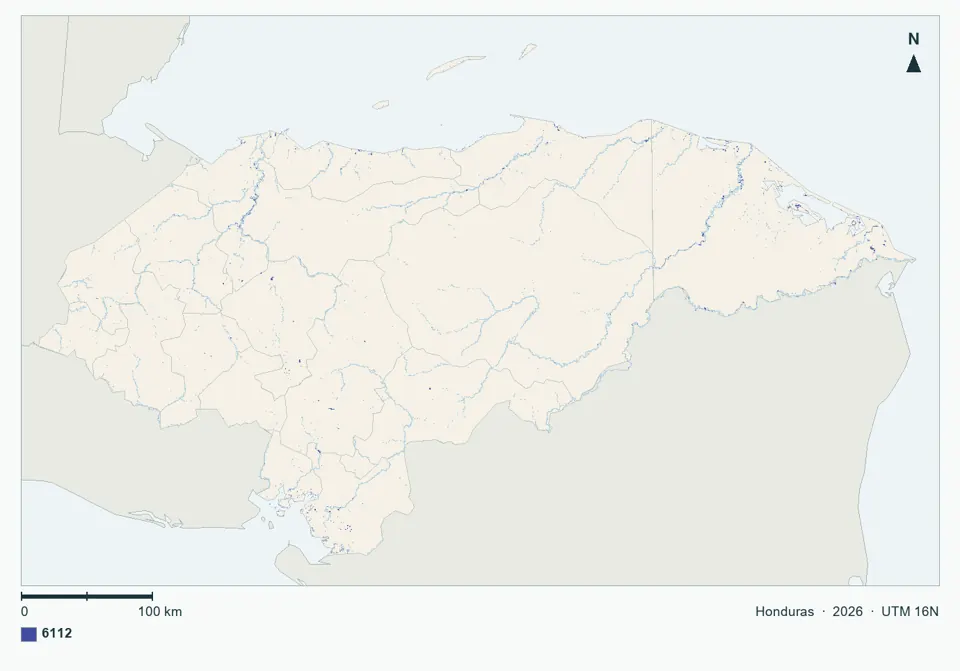
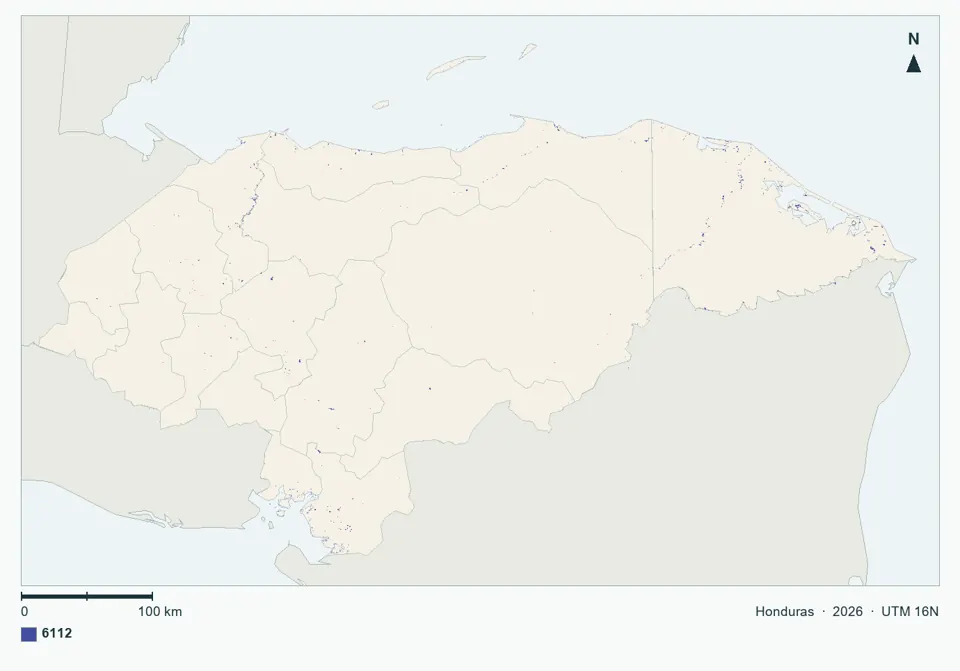
Mapas de ficha de lagos sin red fluvial de fondo
La red de ríos en azul pálido se confundía con las lagunas; queda solo el dibujo por densidad.

diff --git a/datos/07_mapas_fichas.py b/datos/07_mapas_fichas.py
@@ -29,8 +29,7 @@ CTX = Path(os.environ.get("CONTEXTO_MAPA", "D:/web_D_anctigravity/analisis_ecosi
 PNG = AQUI / "raster" / "mapas_fichas"
 WEBP = AQUI.parent / "public" / "data" / "fichas" / "mapas"
 ROTULO = "Honduras  ·  2026  ·  UTM 16N"
-LAGOS = (6111, 6112, 6113)  # se dibujan por densidad, sobre la red fluvial
-RIOS = (6061, 6062, 6063, 6064, 6065)
+LAGOS = (6111, 6112, 6113)  # se dibujan por densidad
 
 style = {int(e.get("value")): e.attrib for e in ET.parse(GEO / "Mapa_Ecosistemas_R26_30m.qml").findall(".//paletteEntry")}
 with (GEO / "Superficies_R25_R26.csv").open(encoding="utf-8-sig", newline="") as f:
@@ -130,14 +129,9 @@ def render(k):
     np.maximum.at(presence, (v, u), counts)
     arr = np.array(panel)
     if k in LAGOS:
-        # lagos: la red fluvial en azul pálido de contexto y cada bloque de 300 m con una intensidad según la fracción
-        # ocupada (100 celdas = bloque lleno), para que las lagunas pequeñas en fila no se lean como un río
-        rp, rc = (np.concatenate(x) for x in zip(*[hits[r] for r in RIOS if r in hits]))
-        ru = np.floor((x0 + (rp % width + .5) * 300 - l) / scale).astype(np.int32)
-        rv = np.floor((t - y0 + (rp // width + .5) * 300) / scale).astype(np.int32)
-        ok = (ru >= 0) & (ru < PW) & (rv >= 0) & (rv < H)
-        arr[rv[ok], ru[ok]] = ImageColor.getrgb("#b7d3e2")
-        a = np.clip(0.35 + 0.65 * presence / 50.0, 0, 1)[..., None] * (presence > 0)[..., None]
+        # lagos: cada bloque de 300 m con una intensidad según la fracción ocupada (100 celdas = bloque lleno), para que
+        # las lagunas pequeñas en fila no se lean como un río. Sin red fluvial de fondo: en azul se confundía con el lago.
+        a =np.clip(0.35 + 0.65 * presence / 50.0, 0, 1)[..., None] * (presence > 0)[..., None]
         arr[:] = (arr * (1 - a) + np.array(ImageColor.getrgb(style[k]["color"])) * a).astype(np.uint8)
     else:
         presence = (presence > 0).astype(np.uint8) * 255
